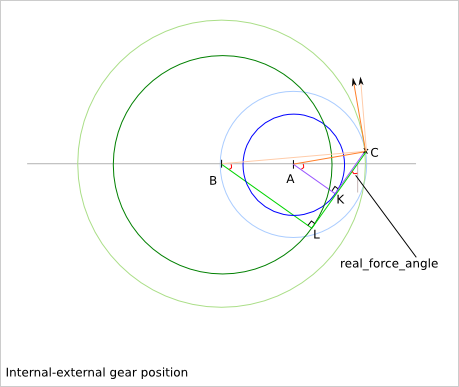
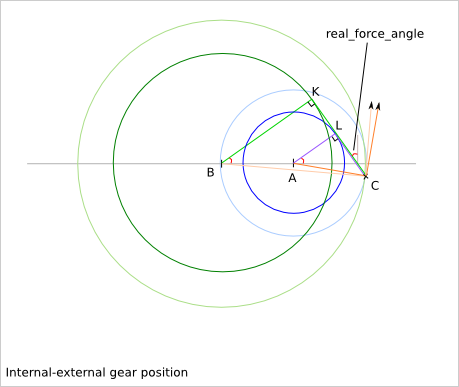
[gear_profile] fix internal gear position

diff --git a/cnc25d/gear_profile_outline.py b/cnc25d/gear_profile_outline.py
@@ -307,8 +307,9 @@ def calc_low_level_gear_parameters(ai_param):
     ai_param['full_negative_involute'] = full_negative_involute
     ai_param['positive_primitive_offset'] = -1*g_ks*(float(top_land)/2 + addendum_positive_involute)
     ai_param['negative_primitive_offset'] =  1*g_ks*(float(top_land)/2 + addendum_negative_involute)
-    ai_param['positive_location_offset'] = -1*g_ks*(float(top_land)/2 + ipaa)
-    ai_param['negative_location_offset'] =  1*g_ks*(float(top_land)/2 - inaa)
+    ai_param['positive_location_offset'] = -1*g_ks*(float(top_land)/2 + g_ks*ipaa)
+    ai_param['negative_location_offset'] =  1*g_ks*(float(top_land)/2 - g_ks*inaa)
+    #print("dbg223: g_ks {:d}  top_land {:0.3f}  ipaa {:0.3f}  inaa {:0.3f}  positive_location_offset {:0.3f}  negative_location_offset {:0.3f}".format(g_ks, top_land, ipaa, inaa, ai_param['positive_location_offset'],  ai_param['negative_location_offset']))
     if(g_type=='e'): # negative > hollow > positive
       # low1: to create the gear-profile outline
       i1_base = g_brn
@@ -396,12 +397,12 @@ def calc_low_level_gear_parameters(ai_param):
       # check the position of the router_bit
       AIO = float(AIB)/2
       IO = g_rbr / math.sin(AIO)
-      AIF = math.pi-a
+      AIF = math.pi/2-a
       OIF = abs(AIF-AIO)
       IFl = IO * math.cos(OIF)
       IHl = AI * math.sin(a)
       Xh = g_hh - (IHl-IFl)
-      #print("dbg974: IO {:0.3f}  FHl {:0.3f}  g_hh {:0.3f}".format(IO, FHl, g_hh))
+      #print("dbg974: IO {:0.3f}  IFl {:0.3f}  IHl {:0.3f}  g_hh {:0.3f}  g_rbr {:0.3f}  Xh {:0.3f}".format(IO, IFl, IHl, g_hh, g_rbr, Xh))
       if(Xh>(0.9*g_rbr)): # in this case the hollow is optmized
         ho = True
         i1_hsl = AI
@@ -423,7 +424,7 @@ def calc_low_level_gear_parameters(ai_param):
       ho, g_rbr, hlm, ham, tlm,
       g_ox, g_oy, portion_tooth_nb, g_pfe, g_ple, closed)
     # info
-    info_txt = "Gear profile details:\n"
+    info_txt = "Gear profile details: hollow with {:d} corner\n".format(1 if(ho) else 2)
     info_txt += "positive involute: \t{:0.3f} (radian)  \t{:0.3f} (mm)  \t{:0.2f} %\n".format(full_positive_involute, g_pr*full_positive_involute, 100*full_positive_involute/pi_module_angle)
     info_txt += "negative involute: \t{:0.3f} (radian)  \t{:0.3f} (mm)  \t{:0.2f} %\n".format(full_negative_involute, g_pr*full_negative_involute, 100*full_negative_involute/pi_module_angle)
     info_txt += "top land:          \t{:0.3f} (radian)  \t{:0.3f} (mm)  \t{:0.2f} %\n".format(top_land, g_ar*top_land, 100*top_land/pi_module_angle)
@@ -1067,12 +1068,17 @@ def g2_position_calculation(ai_place_low_param, ai_rotation_direction, ai_g1_pos
   # length of BC
   BC = math.sqrt((cx-g2_ox)**2+(cy-g2_oy)**2)
   # angle CBA
-  if(AC+BC==AB):
+  max_ABC = max(AB,AC, BC)
+  min_ABC = min(AB,AC, BC)
+  med_ABC = AB+AC+BC-max_ABC-min_ABC
+  #if(AC+BC==AB):
   #if(abs(AC+BC-AB)<radian_epsilon):
+  if(min_ABC+med_ABC==max_ABC):
+  #if(abs(min_ABC+med_ABC-max_ABC)<radian_epsilon):
     #print("WARN468: Warning, the triangle ABC is flat") # it happens from time to time, don't worry :O
     BAC = 0
     ABC = 0
-  elif(AC+BC<AB):
+  elif(min_ABC+med_ABC<max_ABC):
     print("ERR478: Error of length in the triangle ABC")
     sys.exit(20)
   else:
@@ -1269,7 +1275,7 @@ def info_on_real_force_angle(ai_g1_param, ai_g2_param, ai_sys_param, ai_rotation
   CX = g1_ox + math.cos(g1g2_a)*AC
   CY = g1_oy + math.sin(g1g2_a)*AC
   # force line equation
-  real_force_inclination = g1g2_a + rd*(math.pi/2 - real_force_angle) # angle (Ox, force)
+  real_force_inclination = g1g2_a + rd*(math.pi/2 - g1_sign*real_force_angle) # angle (Ox, force)
   Flx = math.sin(real_force_inclination)
   Fly = -1*math.cos(real_force_inclination)
   Fk = -1*(Flx*CX+Fly*CY)
